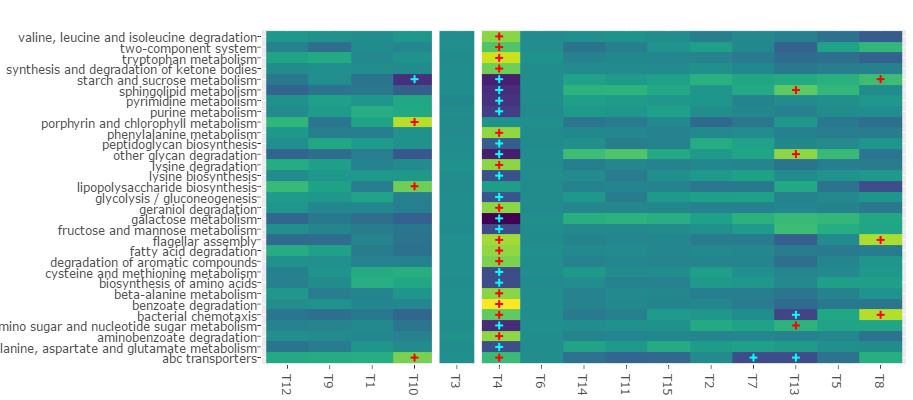
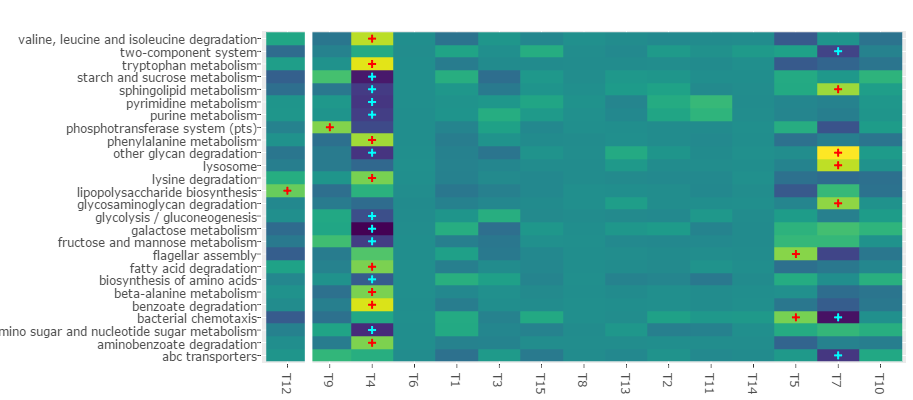
Fixed vignette; updated cran comments

diff --git a/cran-comments.md b/cran-comments.md
@@ -3,11 +3,12 @@ This is a submission
 ---
 
 ## Test environments
-* OS X Yosemite (travis-ci): R-release,
+* OS X Yosemite (travis-ci): R-release
 * OS X Sierra (local machine): R 3.3.1
 * ubuntu 12.04 (travis-ci): R-release
 * ubuntu 16.10 (local machine): R 3.3.2 
-* win-builder [TBD]
+* win-builder: R-release
+* windows 10 Pro (local machine): MRO 3.3.3
 
 ## R CMD check results
 
